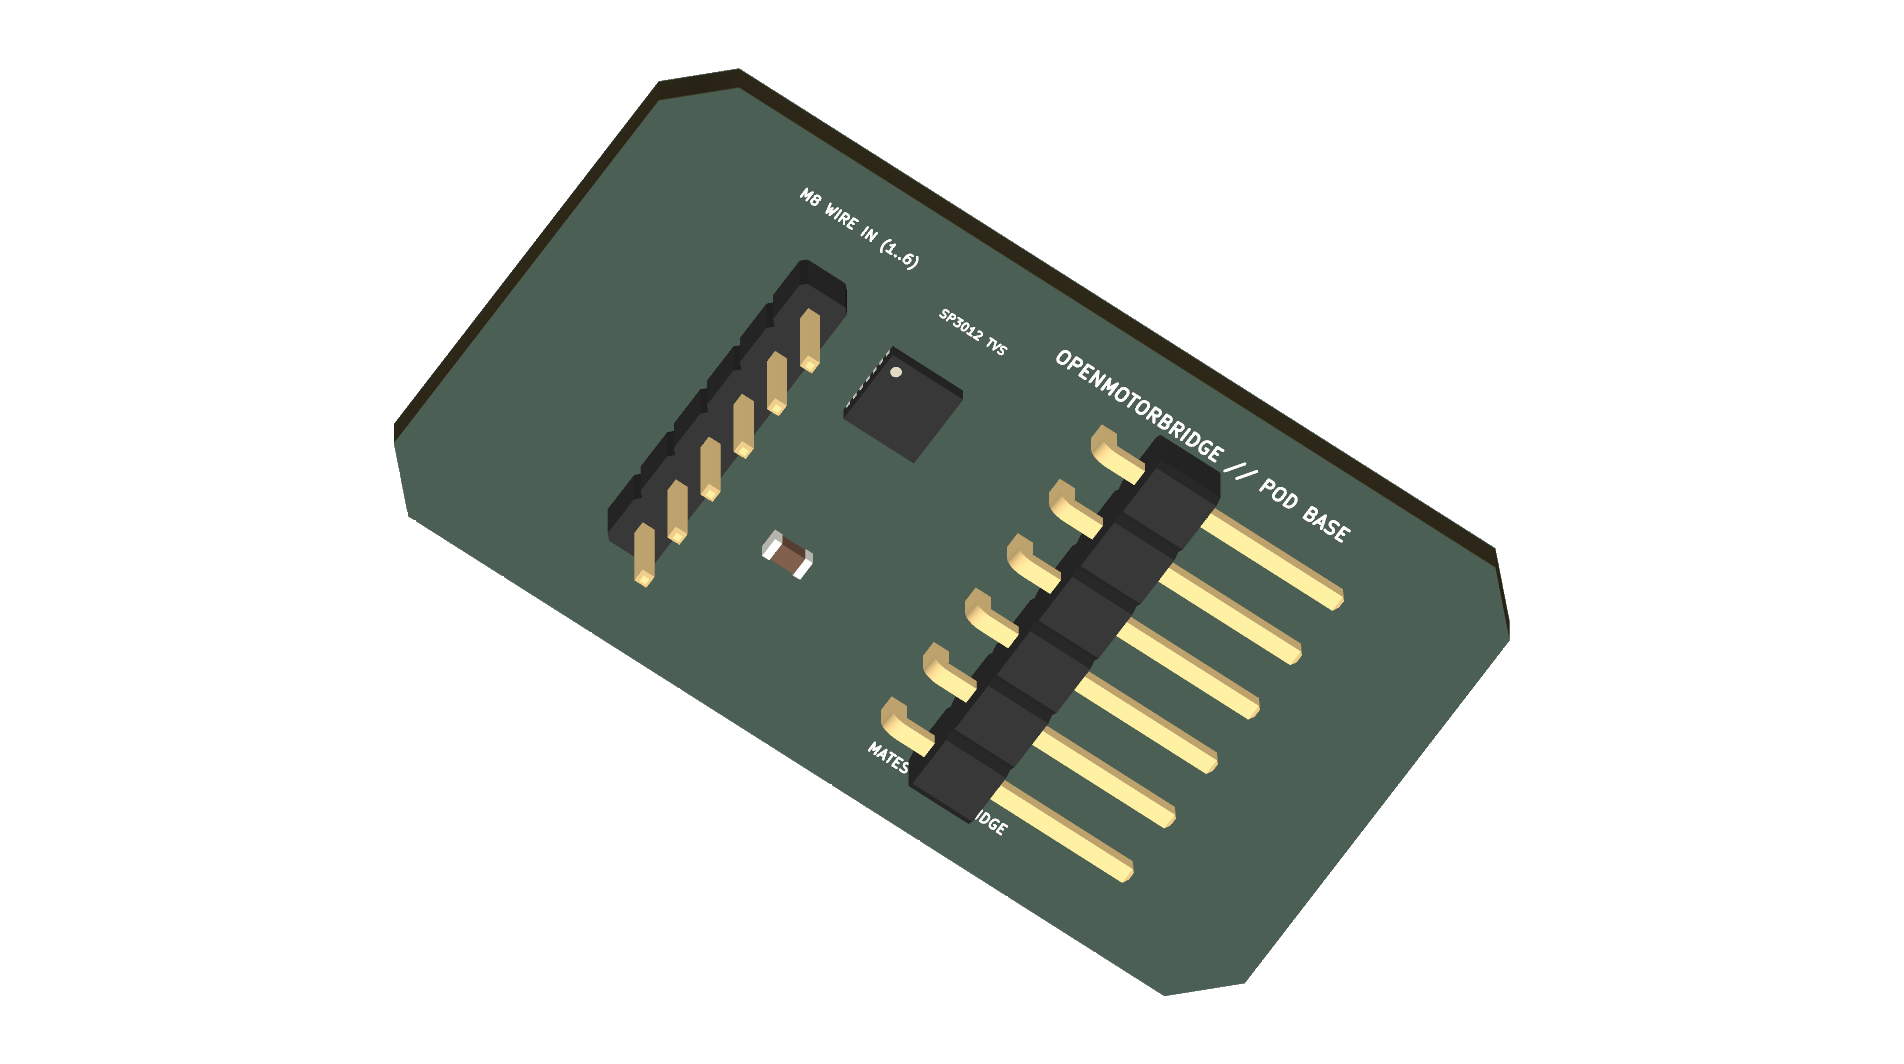
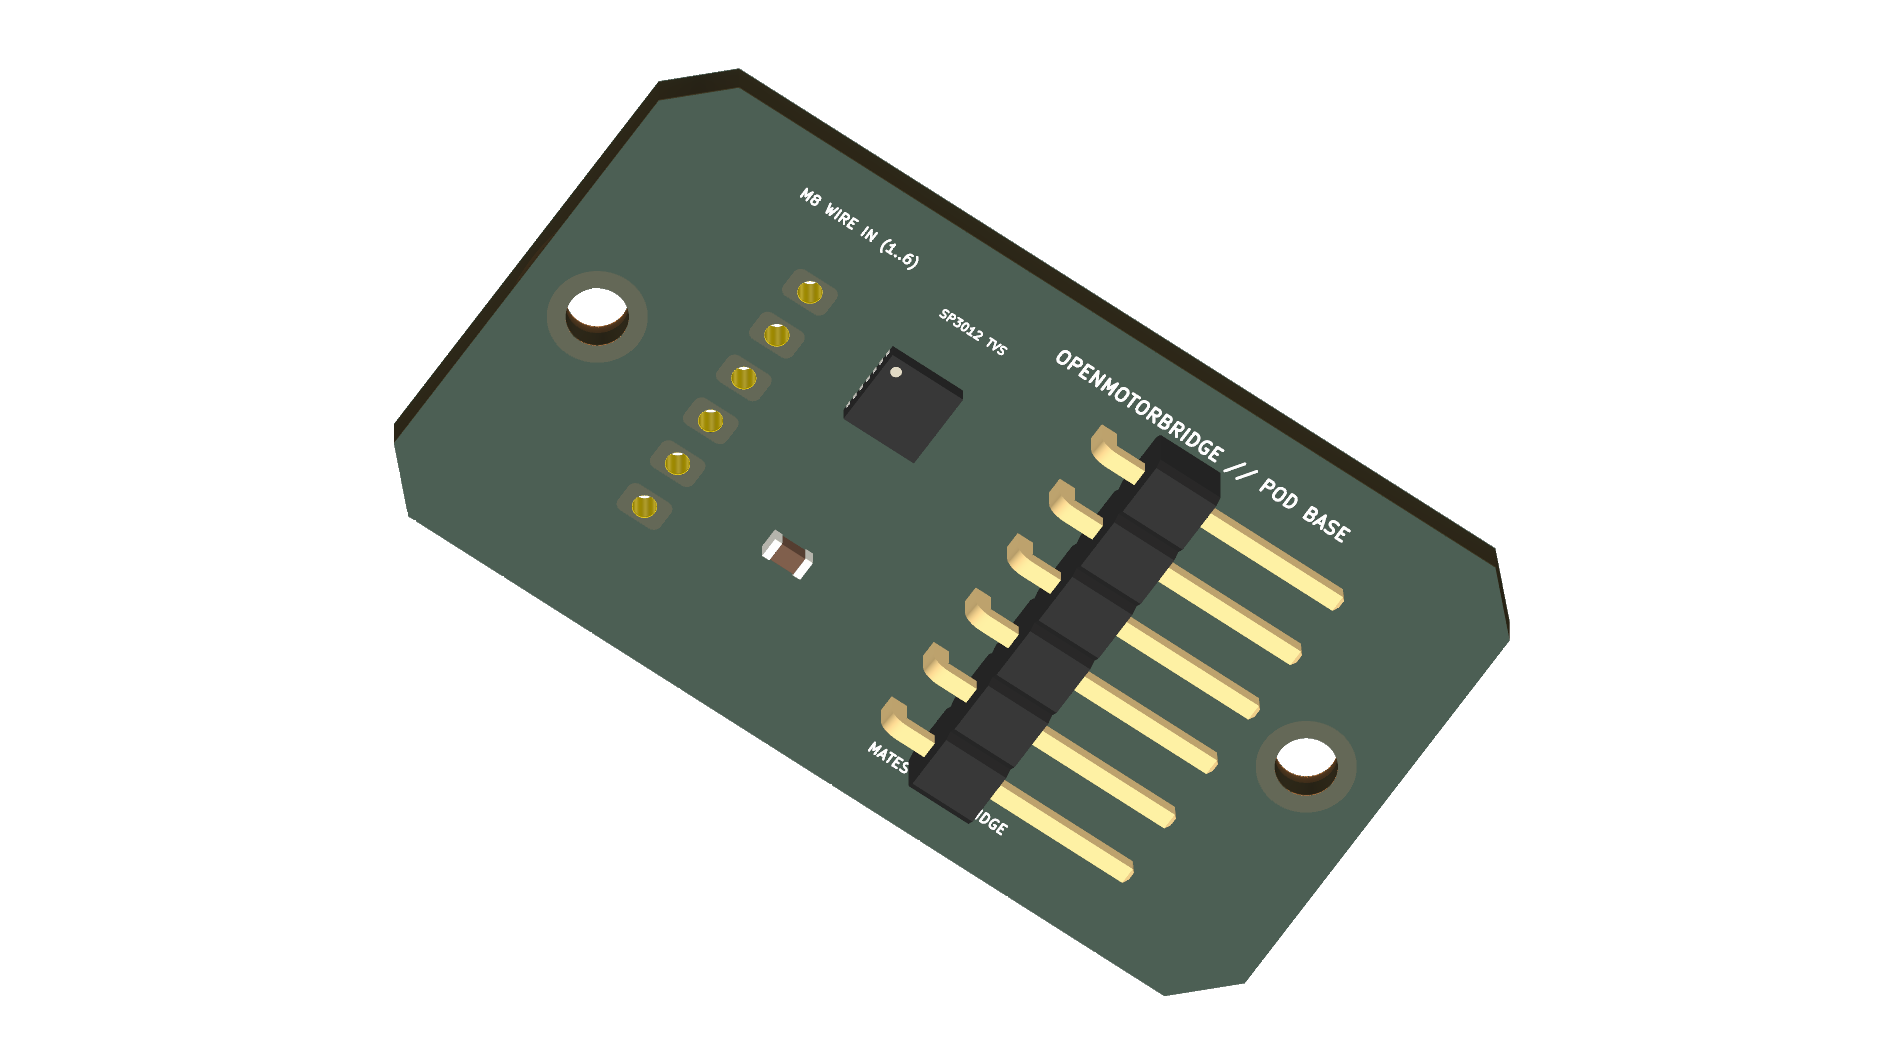
hardware(pod_base): render pure solder eyelets for M8 wire terminal instead of vertical header

Changed region(s): [[0.3099, 0.2481, 0.4648, 0.5583], [0.2789, 0.2481, 0.3409, 0.3412], [0.6507, 0.6823, 0.7127, 0.7444]]

diff --git a/hardware/scripts/autoplace_pod_base.py b/hardware/scripts/autoplace_pod_base.py
@@ -54,16 +54,9 @@ def generate_pod_base_pcb(pcb_path):
 
     # 2. Footprint definitions & 3D model mapping
     model_mapping = {
-        # J1: 6-Pin Horizontal Pin Header (Centered at Y=80.0mm, X=118.0mm)
+        # J1: 6-Pin Horizontal Pin Header (Centered at Y=80.0mm, X=120.0mm)
         'J1': (
             '${KICAD10_3DMODEL_DIR}/Connector_PinHeader_2.54mm.3dshapes/PinHeader_1x06_P2.54mm_Horizontal.step',
-            (0.0, 0.0, 0.0),
-            (0.0, 0.0, 0.0),
-            (1.0, 1.0, 1.0)
-        ),
-        # J2: 6-Pad Wire Solder Terminal Array for M8 Pigtail Leads (Left Wing)
-        'J2': (
-            '${KICAD10_3DMODEL_DIR}/Connector_PinHeader_2.00mm.3dshapes/PinHeader_1x06_P2.00mm_Vertical.step',
             (0.0, 0.0, 0.0),
             (0.0, 0.0, 0.0),
             (1.0, 1.0, 1.0)
@@ -92,7 +85,7 @@ def generate_pod_base_pcb(pcb_path):
         # 6-Pin Horizontal Pin Header (OBERSEITE / INNEN: Horizontal in den Kassetteneinschub ragend)
         'J1': (X_center + 2.0, 73.65, 0.0, 'F.Cu'),          # (120.0, 73.65) Horizontal Pin Header (Y 73.65..86.35mm)
 
-        # 6-Pad Wire Terminal for M8 Panel-Mount Pigtail Leads (Left Wing)
+        # 6-Pad Wire Terminal for M8 Panel-Mount Pigtail Leads (Left Wing: Pure Flat Solder Pads)
         'J2': (X0 + 8.5, 75.0, 0.0, 'F.Cu'),                 # (108.5, 75.0) M8 Wire Connection Pads
 
         # Center Stage: SP3012 TVS Array & 100nF Cap
@@ -111,6 +104,29 @@ def generate_pod_base_pcb(pcb_path):
         pos = pcbnew.VECTOR2I(int(x_mm * 1e6), int(y_mm * 1e6))
         fp.SetPosition(pos)
         fp.SetOrientationDegrees(rot_deg)
+
+        # Add physical pads for J2 (6 Solder Pads) and H1/H2 (M2 screw holes)
+        if ref == 'J2':
+            for p_idx in range(6):
+                pad = pcbnew.PAD(fp)
+                pad.SetNumber(str(p_idx + 1))
+                pad.SetShape(pcbnew.PAD_SHAPE_ROUNDRECT)
+                pad.SetSize(pcbnew.VECTOR2I(int(1.8 * 1e6), int(1.2 * 1e6)))
+                pad.SetDrillSize(pcbnew.VECTOR2I(int(0.85 * 1e6), int(0.85 * 1e6)))
+                pad.SetAttribute(pcbnew.PAD_ATTRIB_PTH)
+                pad.SetLayerSet(pcbnew.LSET.AllCuMask())
+                pad.SetPosition(pcbnew.VECTOR2I(int(x_mm * 1e6), int((y_mm + p_idx * 2.0) * 1e6)))
+                fp.Add(pad)
+        elif ref in ('H1', 'H2'):
+            pad = pcbnew.PAD(fp)
+            pad.SetNumber("1")
+            pad.SetShape(pcbnew.PAD_SHAPE_CIRCLE)
+            pad.SetSize(pcbnew.VECTOR2I(int(3.5 * 1e6), int(3.5 * 1e6)))
+            pad.SetDrillSize(pcbnew.VECTOR2I(int(2.2 * 1e6), int(2.2 * 1e6)))
+            pad.SetAttribute(pcbnew.PAD_ATTRIB_NPTH)
+            pad.SetLayerSet(pcbnew.LSET.AllCuMask())
+            pad.SetPosition(pos)
+            fp.Add(pad)
 
         if ref in model_mapping:
             model_file, (rx, ry, rz), (ox, oy, oz), (sx, sy, sz) = model_mapping[ref]
